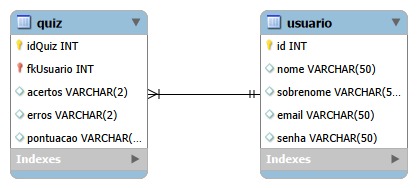
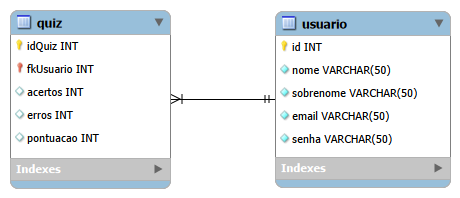
Fix/feat: Corrige o banco de dados e adiciona novo gif para fundo do Quiz

diff --git a/public/css/style.css b/public/css/style.css
@@ -709,28 +709,6 @@ footer .footer-links {
     margin: 2vh;
 }
 
-:root {
-    --Laranja: #FC6625;
-    --CinzaClaro: #8F9491;
-    --CinzaEscuro: #474747;
-    --AzulEscuro: rgb(2, 4, 42);
-    --Bege: #FFF4ED;
-
-    /* Usa no quiz */
-    --success: #198754;
-    --success-dark: #095c36;
-    --success-light: #9dd3ba;
-    --warning: #ffc107;
-    --warning-dark: #705400;
-    --warning-light: #fdebb3;
-    --danger: #dc3545;
-    --danger-dark: #990c19;
-    --danger-light: #f0c1c6;
-    --new-gray: #CCCCCC;
-    --new-black: #212427;
-    --new-white: #E8E8E8;
-}
-
 /*======*/
 /* Quiz */
 /*======*/
@@ -741,13 +719,14 @@ footer .footer-links {
 
 .PosicaoQuiz {
     color: var(--new-black);
-    background-color: rgb(97, 97, 107);
     font-family: Verdana, Geneva, Tahoma, sans-serif;
     display: flex;
     justify-content: center;
     align-items: center;
     height: 100vh;
     width: 80vw;
+    background: linear-gradient(rgba(0, 0, 0, 0.5)), url('../assets/gifs/gifQuiz.gif');
+    background-size: cover;
 }
 
 .quiz #pontuacaoEJogo {
@@ -787,7 +766,7 @@ footer .footer-links {
     color: white;
     border: none;
     border-radius: 20px;
-    font-size: 15px;    
+    font-size: 15px;
     margin-left: 10px;
     transition: 0.8s;
 }
@@ -1031,4 +1010,26 @@ footer .footer-links {
     border-radius: 20px;
     padding: 20px 25px 0 25px;
     border: solid 2x var(--Laranja);
+}
+
+:root {
+    --Laranja: #FC6625;
+    --CinzaClaro: #8F9491;
+    --CinzaEscuro: #474747;
+    --AzulEscuro: rgb(2, 4, 42);
+    --Bege: #FFF4ED;
+
+    /* Usa no quiz */
+    --success: #198754;
+    --success-dark: #095c36;
+    --success-light: #9dd3ba;
+    --warning: #ffc107;
+    --warning-dark: #705400;
+    --warning-light: #fdebb3;
+    --danger: #dc3545;
+    --danger-dark: #990c19;
+    --danger-light: #f0c1c6;
+    --new-gray: #CCCCCC;
+    --new-black: #212427;
+    --new-white: #E8E8E8;
 }